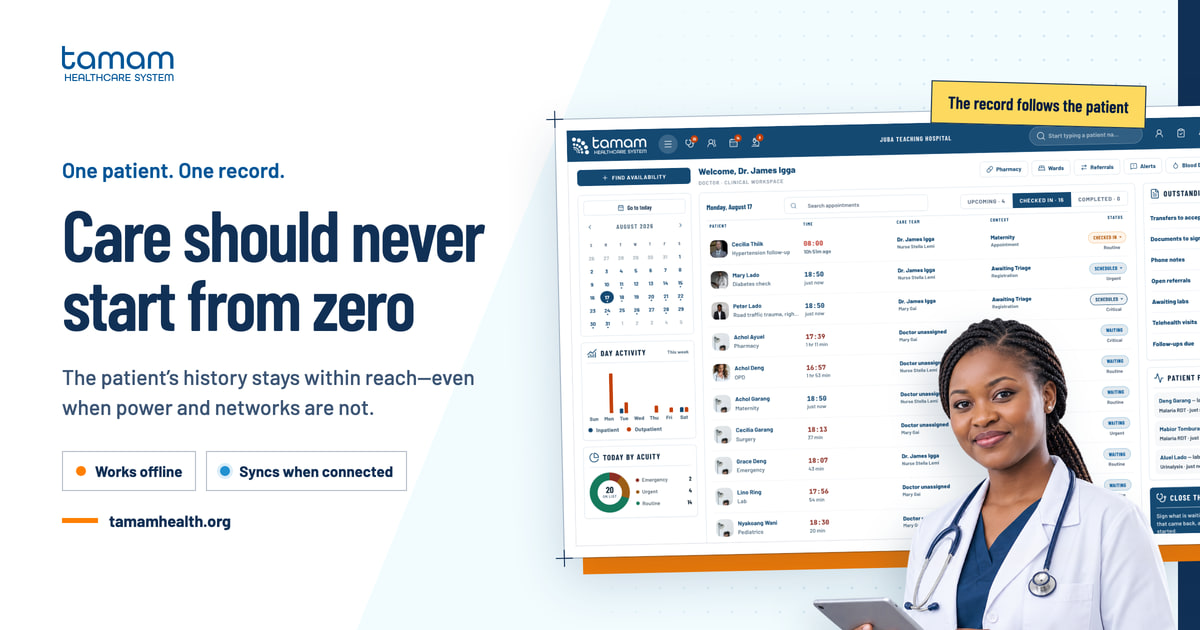
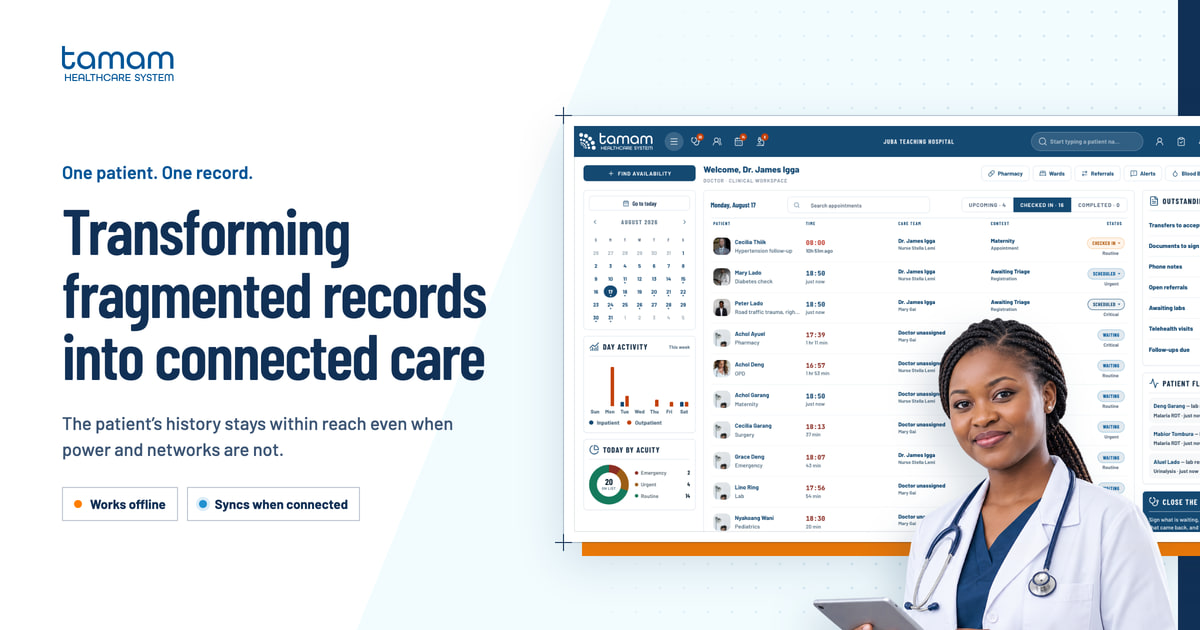
feat: update branding and improve alt text for social media images

diff --git a/website/scripts/og-card.html b/website/scripts/og-card.html
@@ -43,35 +43,31 @@
   .edge { position: absolute; right: 0; top: 0; width: 22px; height: 100%; background: var(--navy); }
   .edge::after { content: ""; position: absolute; left: 0; top: 128px; width: 22px; height: 160px; background: var(--orange); }
 
-  .copy { position: absolute; z-index: 5; left: 62px; top: 46px; width: 485px; }
+  .copy { position: absolute; z-index: 5; left: 62px; top: 46px; width: 475px; }
   /* The source lockup includes the mark at x=0–24.37 and the complete type
      lockup at x=34.25–122.9. Crop only the mark; scale the remaining original
      artwork as one image so its word/subline proportions cannot drift. */
-  .brand { width: 112px; height: 34.84px; overflow: hidden; margin-bottom: 78px; }
+  .brand { width: 112px; height: 34.84px; overflow: hidden; margin-bottom: 82px; }
   .wordmark { display: block; width: 155.48px; max-width: none; height: 34.84px; transform: translateX(-43.34px); }
-  .kicker { color: var(--deep); font-size: 21px; line-height: 1; font-weight: 600; margin-bottom: 19px; }
+  .kicker { color: var(--deep); font-size: 18px; line-height: 1; font-weight: 600; margin-bottom: 18px; }
   h1 {
-    width: 480px; color: var(--navy); font-family: var(--heading); font-size: 72px;
-    font-weight: 600; letter-spacing: -0.03em; line-height: 0.96;
+    width: 470px; color: var(--navy); font-family: var(--heading); font-size: 64px;
+    font-weight: 600; letter-spacing: -0.025em; line-height: 0.98;
   }
-  .lede { width: 425px; margin-top: 25px; color: #3c5574; font-size: 21px; line-height: 1.43; font-weight: 500; }
+  .lede { width: 400px; margin-top: 23px; color: #3c5574; font-size: 18px; line-height: 1.45; font-weight: 500; }
 
-  .states { display: flex; gap: 10px; margin-top: 29px; }
-  .state { display: flex; align-items: center; gap: 9px; padding: 10px 13px; border: 1px solid rgba(17,48,85,0.32); background: #fff; font-size: 15px; font-weight: 700; }
-  .state::before { content: ""; width: 10px; height: 10px; border-radius: 50%; background: var(--orange); }
+  .states { display: flex; gap: 9px; margin-top: 25px; }
+  .state { display: flex; align-items: center; gap: 8px; padding: 8px 11px; border: 1px solid rgba(17,48,85,0.28); background: #fff; font-size: 13px; font-weight: 700; }
+  .state::before { content: ""; width: 8px; height: 8px; border-radius: 50%; background: var(--orange); }
   .state.sync::before { background: var(--blue); box-shadow: 0 0 0 3px rgba(33,145,208,0.16); }
-  .url { display: flex; align-items: center; gap: 11px; margin-top: 20px; color: var(--navy); font-size: 16px; font-weight: 700; }
-  .url::before { content: ""; width: 36px; height: 5px; background: var(--orange); }
-
   .stage {
-    position: absolute; z-index: 2; left: 560px; top: 112px; width: 720px; height: 438px;
-    transform: rotate(-1.25deg); transform-origin: center;
+    position: absolute; z-index: 2; left: 564px; top: 116px; width: 710px; height: 426px;
   }
-  .stage::before { content: ""; position: absolute; inset: 19px -12px -17px 18px; background: var(--orange); }
+  .stage::before { content: ""; position: absolute; inset: 14px -10px -14px 18px; background: var(--orange); }
   .screen {
     position: absolute; inset: 0; overflow: hidden; background: #fff;
-    border: 11px solid #fff; outline: 1px solid rgba(17,48,85,0.28);
-    box-shadow: 0 22px 52px rgba(17,48,85,0.20);
+    border: 10px solid #fff; outline: 1px solid rgba(17,48,85,0.24);
+    box-shadow: 0 18px 44px rgba(17,48,85,0.17);
   }
   .screen::after { content: ""; position: absolute; inset: 0; box-shadow: inset 0 0 0 1px rgba(17,48,85,0.10); pointer-events: none; }
   .screen img { width: 100%; height: 100%; object-fit: cover; object-position: 27% top; }
@@ -88,12 +84,6 @@
     position: absolute; z-index: 4; right: -26px; bottom: -148px; width: 478px; height: auto;
     filter: drop-shadow(-14px 17px 19px rgba(17,48,85,0.18));
   }
-  .record-tab {
-    position: absolute; z-index: 6; right: 54px; top: 83px; padding: 10px 16px 11px;
-    color: var(--ink); background: var(--gold); border: 1px solid var(--navy);
-    font-family: var(--heading); font-size: 17px; font-weight: 600;
-    transform: rotate(1.5deg);
-  }
 </style>
 </head>
 <body>
@@ -104,16 +94,14 @@
         <img class="wordmark" src="../public/assets/tamam-logo-full.svg" alt="" />
       </div>
       <p class="kicker">One patient. One record.</p>
-      <h1>Care should never start from zero</h1>
-      <p class="lede">The patient’s history stays within reach—even when power and networks are not.</p>
+      <h1>Transforming fragmented records into connected care</h1>
+      <p class="lede">The patient’s history stays within reach even when power and networks are not.</p>
       <div class="states"><span class="state">Works offline</span><span class="state sync">Syncs when connected</span></div>
-      <span class="url">tamamhealth.org</span>
     </div>
     <div class="stage">
       <div class="screen"><img src="../public/assets/platform-doctor.png" alt="" /></div>
       <i class="corner tl"></i><i class="corner tr"></i><i class="corner bl"></i><i class="corner br"></i>
     </div>
-    <span class="record-tab">The record follows the patient</span>
     <img class="clinician" src="../public/assets/social-clinician-v2.png" alt="" />
   </div>
 </body>

diff --git a/platform/src/app/layout.tsx b/platform/src/app/layout.tsx
@@ -56,15 +56,15 @@ import TextareaAutoResize from "@/components/TextareaAutoResize";
 import BootIntegrityGuard from "@/components/BootIntegrityGuard";
 
 export const metadata: Metadata = {
-  title: "TamamHealth — Every Patient Deserves to Be Remembered",
+  title: "Tamam Health",
   description: "Offline-first health records for South Sudan and Africa, built to keep patient stories connected from the bedside to the nation.",
   manifest: "/manifest.json",
   appleWebApp: {
     capable: true,
     statusBarStyle: "default",
-    title: "TamamHealth",
+    title: "Tamam Health",
   },
-  applicationName: "TamamHealth",
+  applicationName: "Tamam Health",
 };
 
 export const viewport: Viewport = {
